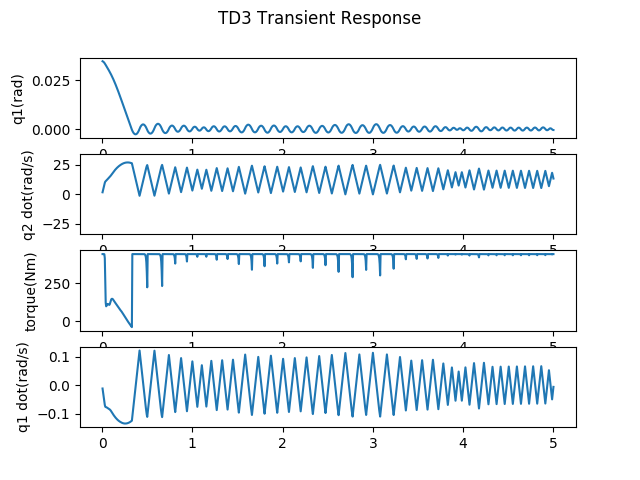
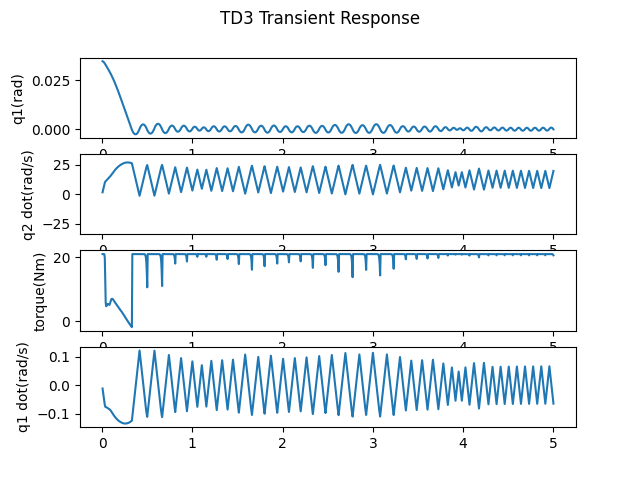
0623 fix plot tor

diff --git a/main.py b/main.py
@@ -20,7 +20,7 @@ def transient_response(eval_env, state_action_log):
 	axs[0].plot(t[1:], state_action_log[1:, 0])
 	axs[3].plot(t[1:], state_action_log[1:, 1])
 	axs[1].plot(t[1:], state_action_log[1:, 2])
-	axs[2].plot(t[1:], state_action_log[1:, 3] * eval_env.max_torque)
+	axs[2].plot(t[1:], state_action_log[1:, 3]) # * eval_env.max_torque)
 	axs[0].set_ylabel('q1(rad)')
 	axs[1].set_ylabel('q2 dot(rad/s)')
 	axs[2].set_ylabel('torque(Nm)')
@@ -121,7 +121,7 @@ def eval_policy(policy, env_name, seed, eval_episodes=1):
 				action = np.array([0])
 			else:
 				action = policy.select_action(np.array(state))
-			# print("eval_action",action)
+			print("eval_action",action)
 			state, reward, done, _ = eval_env.step(action)
 			state_for_render = eval_env.state
 
@@ -388,4 +388,5 @@ if __name__ == "__main__":
 
 	t1 = time.time()
 	timer(t0, t1)
-	log_f.close()
+	if not args.load_model:
+		log_f.close()
